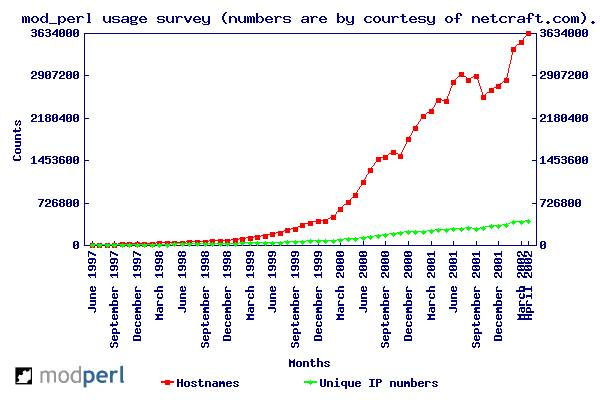
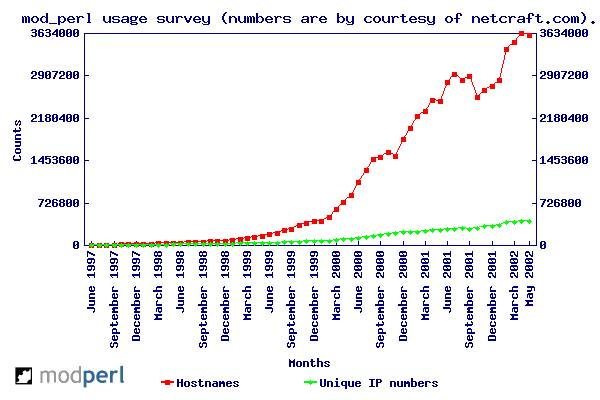
May 2002 stats
git-svn-id: https://svn.apache.org/repos/asf/perl/modperl/docs/trunk@66420 13f79535-47bb-0310-9956-ffa450edef68

Changed region(s): [[0.12, 0.06, 0.9, 0.87], [0.15, 0.72, 0.18, 0.78]]

diff --git a/src/outstanding/stats/securityspace.html b/src/outstanding/stats/securityspace.html
@@ -7,12 +7,12 @@
 <body bgcolor="#ffffff">
 
 <p> SecuritySpace provides an <a
-href="http://www.securityspace.com/s_survey/data/man.200204/apachemods.html?mod=cGVybA==">Apache
+href="http://www.securityspace.com/s_survey/data/man.200205/apachemods.html?mod=cGVybA==">Apache
 Module Report on mod_perl</a> comprising statistics and a graph based
 on the data collected by <a
 href="http://www.securityspace.com/">www.securityspace.com</a>. They
 also feature <a
-href="http://www.securityspace.com/s_survey/data/man.200204/apachemods.html">a
+href="http://www.securityspace.com/s_survey/data/man.200205/apachemods.html">a
 comparison</a> between all the Apache modules they survey.  </p>
 
 </body>

diff --git a/src/outstanding/stats/netcraft.html b/src/outstanding/stats/netcraft.html
@@ -29,6 +29,7 @@ year/month if needed -->
 
 <table cellpadding="3" border="1" cellspacing="0">
 <tr><th>Survey</th><th>Hostnames</th><th>Unique IP Addresses</th></tr>
+<tr><td> May 2002       </td><td>3594884</td><td>410391</td></tr>
 <tr><td> April 2002     </td><td>3633952</td><td>411314</td></tr>
 <tr><td> March 2002     </td><td>3478130</td><td>393860</td></tr>
 <tr><td> February 2002  </td><td>3354370</td><td>388506</td></tr>
